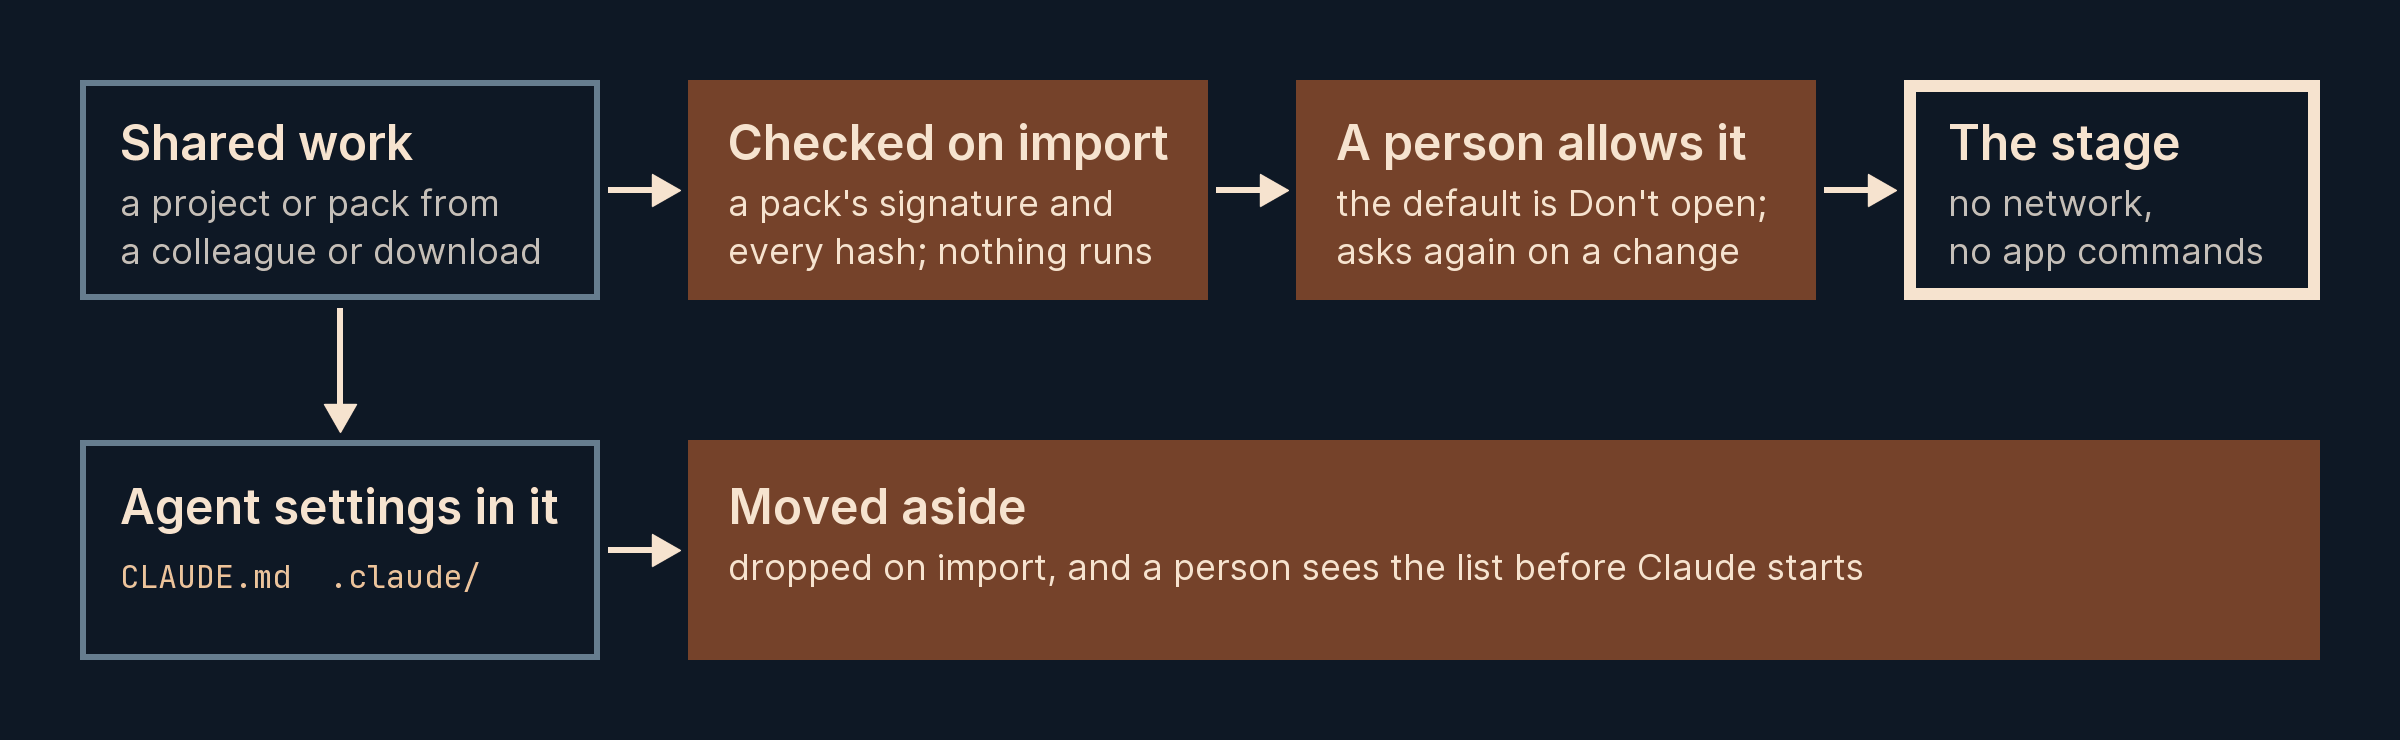
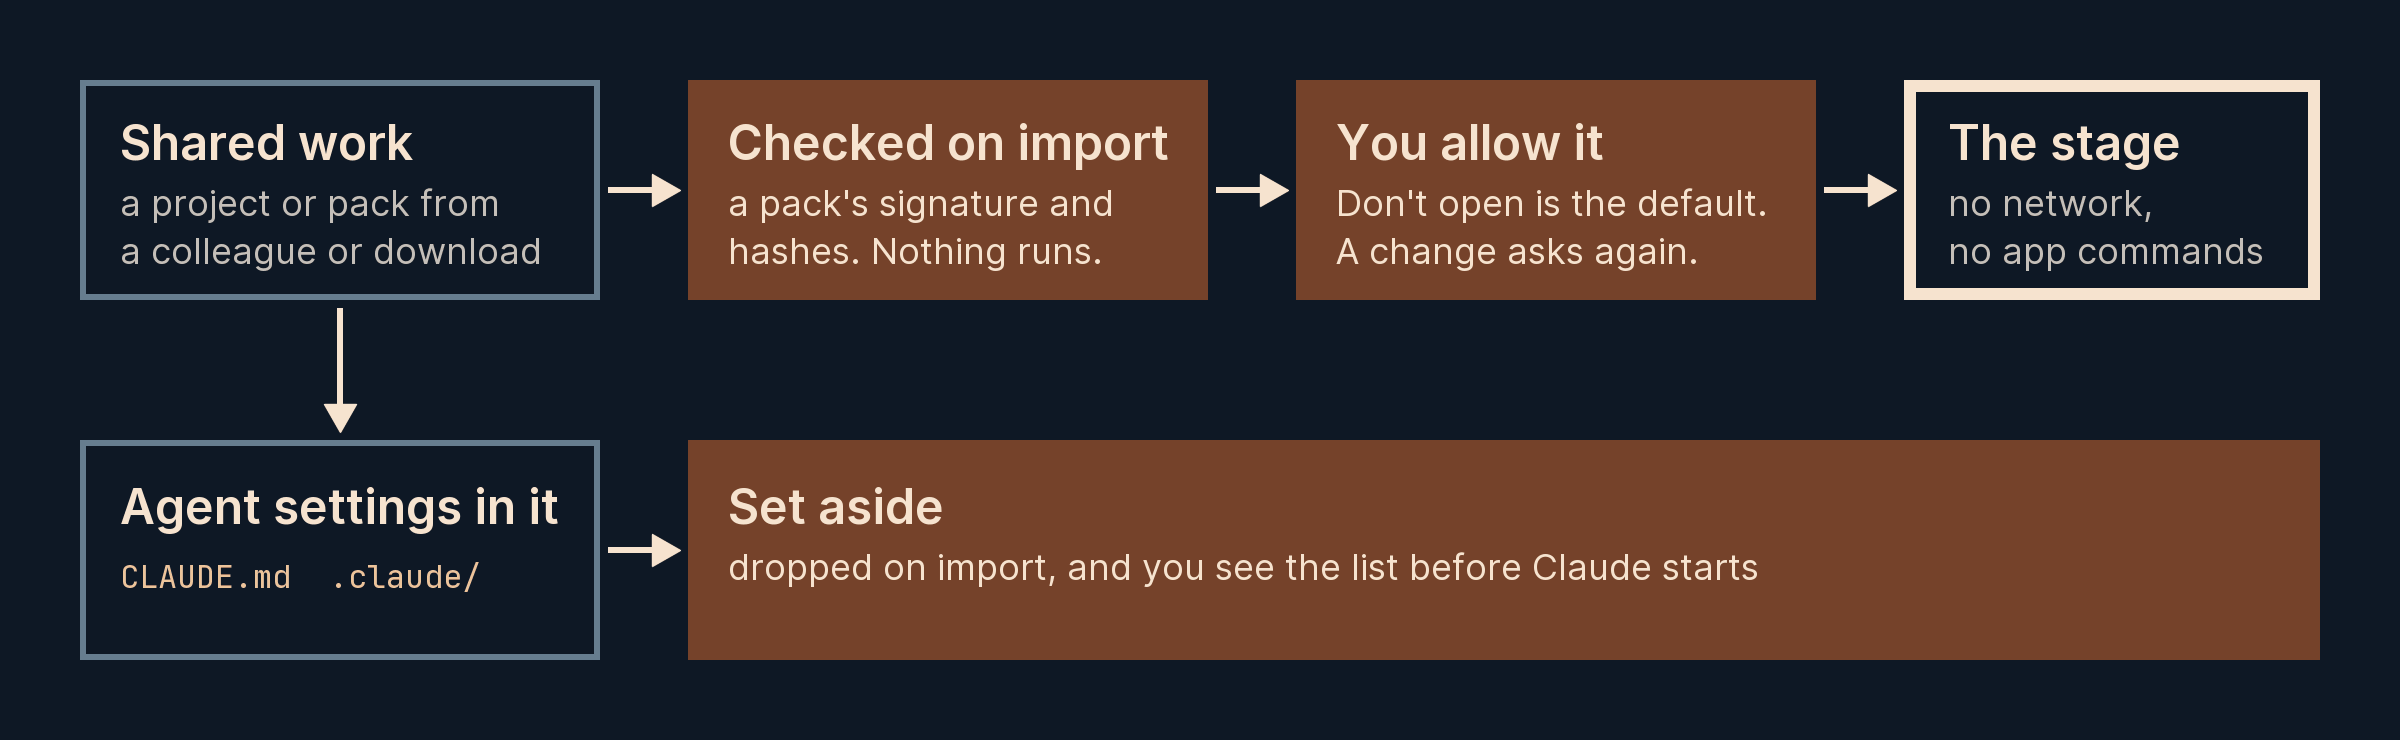
docs: put the security section in plain words

diff --git a/scripts/make-art.py b/scripts/make-art.py
@@ -298,10 +298,10 @@ def shared():
     d.block(60, 80, CREAM, "Shared work", "a project or pack from", "a colleague or download")
     d.arrow(304, 95, 340, 95)
     d.fill(RUST, 344, 40, 604, 150)
-    d.block(364, 80, CREAM, "Checked on import", "a pack's signature and", "every hash; nothing runs", sub=CREAM)
+    d.block(364, 80, CREAM, "Checked on import", "a pack's signature and", "hashes. Nothing runs.", sub=CREAM)
     d.arrow(608, 95, 644, 95)
     d.fill(RUST, 648, 40, 908, 150)
-    d.block(668, 80, CREAM, "A person allows it", "the default is Don't open;", "asks again on a change", sub=CREAM)
+    d.block(668, 80, CREAM, "You allow it", "Don't open is the default.", "A change asks again.", sub=CREAM)
     d.arrow(912, 95, 948, 95)
     d.frame(CREAM, 952, 40, 1160, 150, 6)
     d.block(974, 80, CREAM, "The stage", "no network,", "no app commands")
@@ -311,7 +311,7 @@ def shared():
     d.say(60, 294, 16, "JetBrainsMono-Regular", BUFF, "CLAUDE.md  .claude/")
     d.arrow(304, 275, 340, 275)
     d.fill(RUST, 344, 220, 1160, 330)
-    d.block(364, 262, CREAM, "Moved aside", "dropped on import, and a person sees the list before Claude starts", sub=CREAM)
+    d.block(364, 262, CREAM, "Set aside", "dropped on import, and you see the list before Claude starts", sub=CREAM)
     return d.done()
 
 

diff --git a/README.md b/README.md
@@ -34,7 +34,7 @@ while you watch them update here.
   </a>
 </p>
 
-- A signed and notarised `.dmg`; macOS 26.0+ on **Apple Silicon** (arm64) only, no Intel build
+- A signed and notarised `.dmg` for macOS 26.0+ on **Apple Silicon** (arm64). There's no Intel build
 - Free and open source. No accounts, no telemetry
 - The optional AI authoring path uses your own Claude Code install
 - Managed Macs install the signed `.pkg` through an MDM ([`docs/fleet.md`](docs/fleet.md))
@@ -48,17 +48,17 @@ Nothing leaves your Mac unless you choose.
   <img src="docs/assets/security-doors.png" width="900" alt="Your Mac as a walled box holding projects, render and export. Three switched doors lead to GitHub for updates, your own Claude app and a website you allow, each with the key a fleet forces to lock it. There is no other way out.">
 </p>
 
-| Risk | Control |
+| Risk | What the app does |
 | --- | --- |
-| [Unreleased work leaves the Mac](SECURITY.md#what-leaves-the-mac) | No accounts, telemetry or crash reports, and no HTTP client of its own. Three paths reach the network: updates, Edit with Claude and a website you allow in a scene. A person starts each, and a fleet can force each off. |
-| [The AI reads more than it should](SECURITY.md#what-reaches-your-agent) | The app holds no API key and never starts Claude. Edit with Claude opens one project folder in your own Claude install, which sends that project's files to Anthropic under your account and your organisation's Claude settings. |
-| [A shared project or pack runs code](SECURITY.md#scene-code-and-the-trust-boundary) | Nothing runs on import. Scene code runs only after a person presses Allow, on a stage with no network and no app commands. Packs are signed and every file is hashed again as it lands. |
-| [Text in a project gives the agent orders](SECURITY.md#what-reaches-your-agent) | What the agent reads from a project is escaped, capped and marked as data. Agent settings in a shared folder are moved aside, and a person sees the list before Claude starts. |
-| [A tampered release or update](SECURITY.md#release-integrity) | Built by GitHub Actions from a signed tag with no signing secret in reach, signed behind a second reviewer, notarised by Apple and attested, with an SBOM. An update installs only with a valid signature from the key built into the app. |
-| [Confidential files on the Mac](SECURITY.md#on-the-mac) | Projects stay in your home folder; nothing is uploaded or synchronised. App data is owner-only, sealed again at every launch and skipped by Spotlight. Encryption at rest is FileVault: the app adds none. |
-| [Your organisation needs a ceiling](docs/mdm.md) | A configuration profile forces eleven keys. A person's own `defaults write` grants nothing, and a malformed key fails closed. |
+| [Your work leaves the Mac](SECURITY.md#what-leaves-the-mac) | There are no accounts, no telemetry and no crash reports. The app goes online for three things: updates, Edit with Claude and a website you allow in a scene. You turn each one on, and IT can turn each one off. |
+| [The AI sees more than it should](SECURITY.md#what-reaches-your-agent) | The app has no API key and never starts Claude. Edit with Claude opens one project folder in your own Claude install. Claude then sends that project's files to Anthropic, under your account and your organisation's Claude settings. |
+| [A project or pack you were sent runs code](SECURITY.md#scene-code-and-the-trust-boundary) | Nothing runs when you import. Scene code runs only after you press Allow, and it can't reach the network or the app's commands. Packs are signed, and every file's hash is checked on import. |
+| [Text in a project tries to instruct the AI](SECURITY.md#what-reaches-your-agent) | Text that Claude reads from a project is escaped, capped and marked as data. Agent settings in a shared folder are set aside, and you see the list before Claude starts. |
+| [A release or update is tampered with](SECURITY.md#release-integrity) | GitHub Actions builds each release from a signed tag, with no signing secret in reach. Signing needs a second reviewer. Apple notarises the app, and each release comes with an attestation and an SBOM. An update installs only if it's signed with the key built into the app. |
+| [Confidential files sit on the Mac](SECURITY.md#on-the-mac) | Projects stay in your home folder. Nothing is uploaded or synced. Only your account can read the app's data, and Spotlight skips it. The app adds no encryption of its own, so use FileVault. |
+| [Your organisation needs to set limits](docs/mdm.md) | A configuration profile can lock eleven settings. People can't override them with `defaults write`. If a key is malformed, the app takes the safe option. |
 
-**Not done yet:** one maintainer, no third-party penetration test, no SOC 2 or ISO 27001, no App Sandbox, and the agent is bounded by rules and prompts, not a sandbox. [The full list](SECURITY.md#not-yet).
+**Not done yet.** There's one maintainer. There's been no third-party penetration test. There's no SOC 2 or ISO 27001, and no App Sandbox. The AI is limited by rules and prompts, not by a sandbox. [The full list](SECURITY.md#not-yet).
 
 **Check it yourself:**
 

diff --git a/SECURITY.md b/SECURITY.md
@@ -611,7 +611,7 @@ stay unsigned: they only move a progress bar.
 
 ## Scene code and the trust boundary
 
-![Shared work, a project or pack, is checked on import, where nothing runs. A person then allows it before its scene code runs on a stage with no network and no app commands. Agent settings inside it are moved aside, and a person sees the list before Claude starts.](docs/assets/security-shared.png)
+![Shared work, a project or pack, is checked on import, where nothing runs. You then allow it before its scene code runs on a stage with no network and no app commands. Agent settings inside it are set aside, and you see the list before Claude starts.](docs/assets/security-shared.png)
 
 - **The Allow gate** (`workspace.rs`, `request_project_trust`, `trust_project`,
   `check_project_trust`; `src-tauri/src/native_alert.rs`): an `NSAlert` sheet on
